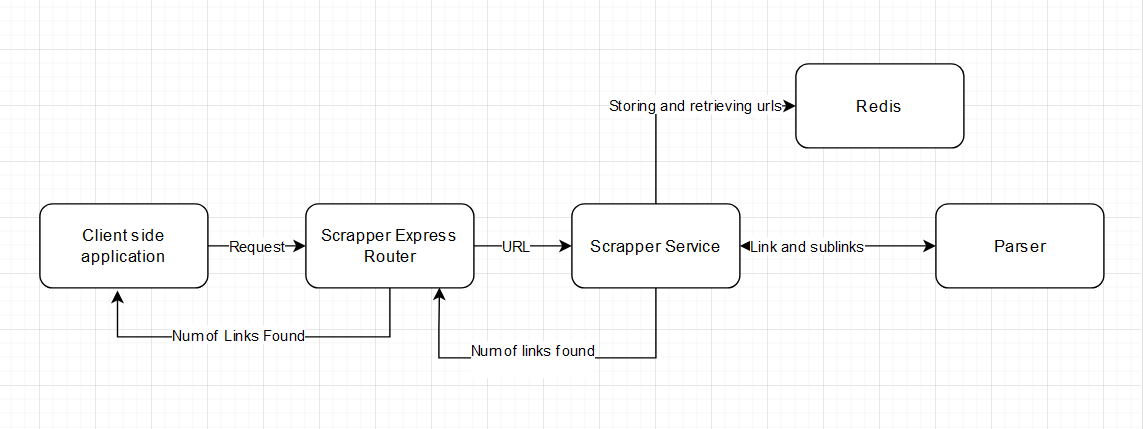
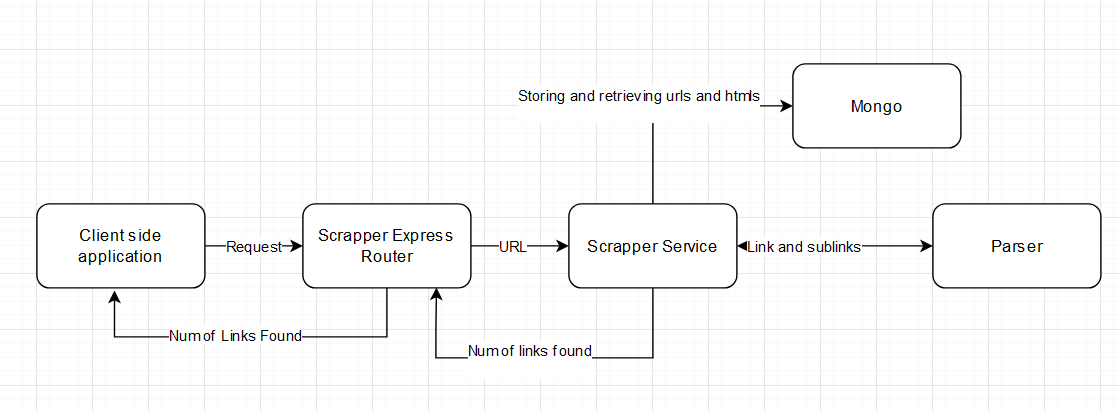
switched to mongo, updated readme and changed get route

Changed region(s): [[0.0312, 0.1456, 1.0, 0.8738], [0.875, 0.5534, 0.9375, 0.6117], [0.75, 0.233, 0.8125, 0.2913]]

diff --git a/test/VulnerabilityFinderTests.test.ts b/test/VulnerabilityFinderTests.test.ts
@@ -3,36 +3,70 @@ import ScrapperRedis from "../src/Scrapper/ScrapperRedis";
 import Scrapper from "../src/Scrapper/Scrapper";
 import {MOCK_LINKS, NUM_OF_LINKS_TO_CHOOSE} from "../src/consts";
 import {afterEach} from "node:test";
-beforeAll( () => {
+import ScrapperDB from "../src/Scrapper/scrapperDB";
+const mockHtml = "<html>mock html</html>"
+beforeAll( async () => {
     ScrapperRedis.init();
+    await ScrapperDB.init()
 })
 describe('Scrapper tests', () => {
-    test('checking that we can add a link',async () => {
-        const didAdd = await ScrapperRedis.addUnique('url');
-        const doesExist = await ScrapperRedis.isDuplicate('url')
-        expect(didAdd).toBe(true)
-        expect(doesExist).toBe(true)
+    describe('checking redis db', () => {
+        test('checking that we can add a link',async () => {
+            const didAdd = await ScrapperRedis.addUnique('url');
+            const doesExist = await ScrapperRedis.isDuplicate('url')
+            expect(didAdd).toBe(true)
+            expect(doesExist).toBe(true)
+
+        })
+        test('removing link',async  () => {
+            const didRemoveLink = await ScrapperRedis.removeLink('url');
+            expect(didRemoveLink).toBe(true)
+        })
+        test('link was removed',async  () => {
+            const doesLinkExist = await ScrapperRedis.isDuplicate('url')
+            expect(doesLinkExist).toBe(false)
+        })
+        test('adding mock links', async () => {
+            const numOfAddedLinks = await Scrapper.parseURL('random.org')
+            // note - because the link choosing is random, I am asking for it to get at least the number of link I have chosen at the start
+            // Although we will usually find all 10 links(+1 for the initial link, unless it is one of the ones in the mock file)
+            expect(numOfAddedLinks).toBeGreaterThan(NUM_OF_LINKS_TO_CHOOSE);
+            await ScrapperRedis.clearLinks()
+        })
+    })
+
+    describe('checking mongo db', () => {
+        test('Checking redis ',async () => {
+            const didAdd = await ScrapperDB.addUnique('url', mockHtml);
+            const doesExist = await ScrapperDB.isDuplicate('url')
+            expect(didAdd).toBe(true)
+            expect(doesExist).toBe(true)
+        })
+        test('removing link',async  () => {
+            const didRemoveLink = await ScrapperDB.removeLink('url');
+            expect(didRemoveLink).toBe(true)
+        })
+        test('link was removed',async  () => {
+            const doesLinkExist = await ScrapperDB.isDuplicate('url')
+            expect(doesLinkExist).toBe(false)
+        })
 
     })
-    test('removing link',async  () => {
-        const didRemoveLink = await ScrapperRedis.removeLink('url');
-        expect(didRemoveLink).toBe(true)
-    })
-    test('link was removed',async  () => {
-        const doesLinkExist = await ScrapperRedis.isDuplicate('url')
-        expect(doesLinkExist).toBe(false)
-    })
-    test('adding mock links', async () => {
-        const numOfAddedLinks = await Scrapper.parseURL('random.org')
-        // note - because the link choosing is random, I am asking for it to get at least the number of link I have chosen at the start
-        // Although we will usually find all 10 links(+1 for the initial link, unless it is one of the ones in the mock file)
-        expect(numOfAddedLinks).toBeGreaterThan(NUM_OF_LINKS_TO_CHOOSE);
-        await ScrapperRedis.clearLinks()
-    })
+
     describe('Checking the parse url function', () => {
+        beforeAll(async () => {
+            await ScrapperDB.clearLinks();
+        })
         afterEach(async () => {
             // Because we are running the parser, we want to clear the mock redis every function.
-            await ScrapperRedis.clearLinks()
+            await ScrapperDB.clearLinks()
+        })
+        test('adding mock links', async () => {
+            const numOfAddedLinks = await Scrapper.parseURL('random.org')
+            // note - because the link choosing is random, I am asking for it to get at least the number of link I have chosen at the start
+            // Although we will usually find all 10 links(+1 for the initial link, unless it is one of the ones in the mock file)
+            expect(numOfAddedLinks).toBeGreaterThan(NUM_OF_LINKS_TO_CHOOSE);
+            await ScrapperDB.clearLinks()
         })
         test('adding mock links with initial link from the mock list', async () => {
             const numOfAddedLinks = await Scrapper.parseURL(MOCK_LINKS[0])

diff --git a/src/Scrapper/scrapperDB.ts b/src/Scrapper/scrapperDB.ts
@@ -1,34 +1,63 @@
-// import {MongoMemoryServer} from "mongodb-memory-server";
-// import {Collection, Db, MongoClient} from "mongodb";
-//
-// class ScrapperDB {
-//
-//     static scrapperDB: ScrapperDB = new ScrapperDB();
-//     private db: Db;
-//     private collection: Collection<any>;
-//     private mongod: MongoMemoryServer;
-//     static async init() {
-//         const uri: string = await this.getMockMongoConnectionString();
-//         await this.scrapperDB.connectToMongo(uri);
-//     }
-//     static async getMockMongoConnectionString(): Promise<string> {
-//         if(!this.scrapperDB.mongod) {
-//             this.scrapperDB.mongod = await MongoMemoryServer.create();
-//         }
-//         return this.scrapperDB.mongod.getUri();
-//     }
-//     async connectToMongo(uri: string): Promise<Collection<any>> {
-//         const client = await MongoClient.connect(uri);
-//         this.db = client.db();
-//         this.collection = this.db.collection('urls')
-//         return this.collection
-//     }
-//     static async saveParsedResult(url: string, html: string, links: string[]): Promise<any> {
-//         const collection = this.scrapperDB.collection;
-//         return await collection.replaceOne({url : url}, {url, html, links}, {upsert: true})
-//     }
-//     static async getParsedResult(url: string): Promise<any> {
-//         return await this.scrapperDB.collection.findOne({url})
-//     }
-//
-// } export default ScrapperDB
+import {MongoMemoryServer} from "mongodb-memory-server";
+import {Collection, Db, MongoClient} from "mongodb";
+import {MongoLinkInterface} from "./mongoLinkInterface.js";
+
+class ScrapperDB {
+
+    static scrapperDB: ScrapperDB = new ScrapperDB();
+    private db: Db;
+    private collection: Collection<any>;
+    private mongod: MongoMemoryServer;
+    private client: MongoClient;
+    static async init() {
+        const uri: string = await this.getMongoURI();
+        await this.scrapperDB.connectToMongo(uri);
+        await this.scrapperDB.initCollections();
+    }
+    static async getMongoURI(): Promise<string> {
+        if(!this.scrapperDB.mongod) {
+            this.scrapperDB.mongod = await MongoMemoryServer.create();
+        }
+        return this.scrapperDB.mongod.getUri();
+    }
+    async connectToMongo(uri: string): Promise<MongoClient> {
+        this.client = await MongoClient.connect(uri);
+        return this.client;
+    }
+    async initCollections(): Promise<Collection<any>> {
+        this.db = this.client.db();
+        this.collection = this.db.collection('urls')
+        return this.collection
+    }
+    // static async saveParsedResult(url: string, html: string): Promise<any> {
+    //     const collection = this.scrapperDB.collection;
+    //     return await collection.replaceOne({url : url}, {url, html}, {upsert: true})
+    // }
+    static async addUnique(url: string, html: string): Promise<boolean> {
+        if(await this.isDuplicate(url)) {
+            return false;
+        }
+        return !!await this.scrapperDB.collection.insertOne({url, html})
+    }
+    static async isDuplicate(url: string): Promise<boolean> {
+        const doc = (await this.scrapperDB.collection.findOne({url: url}));
+        return doc !== null
+    }
+    static async getParsedResult(url: string): Promise<any> {
+        return await this.scrapperDB.collection.findOne({url})
+    }
+    static async removeLink(link: string): Promise<boolean> {
+        return !!(await this.scrapperDB.collection.deleteOne({url: link}))
+    }
+    static async clearLinks(): Promise<number> {
+        return (await this.scrapperDB.collection.deleteMany({})).deletedCount
+    }
+    static async getLinkData(url: string): Promise<MongoLinkInterface> {
+        const doc = await this.scrapperDB.collection.findOne({url: url})
+        if(!doc) {
+            return null;
+        }
+        return doc;
+    }
+
+} export default ScrapperDB

diff --git a/src/Scrapper/Scrapper.ts b/src/Scrapper/Scrapper.ts
@@ -1,6 +1,8 @@
-import {MAX_DEPTH, MAX_NUM_OF_LINKS, MOCK_LINKS, NUM_OF_LINKS_TO_CHOOSE} from "../consts.js";
-import ScrapperRedis from "./ScrapperRedis.js";
+import {MAX_DEPTH, MAX_NUM_OF_LINKS } from "../consts.js";
+import ScrapperDB from "./scrapperDB.js";
 import HtmlParser from "./HtmlParser.js";
+// import ScrapperRedis from "./ScrapperRedis.js";
+import {MongoLinkInterface} from "./mongoLinkInterface.js";
 
 class Scrapper {
     static queue: {link: string, depth: number}[] = [];
@@ -9,7 +11,7 @@ class Scrapper {
         if(!url) {
             throw new Error('no or empty url given')
         }
-        let numOfLinksAdded = await this.enqueUniqueLink(url, 0);
+        let numOfLinksAdded = await this.enqueUniqueLink(url,await HtmlParser.parseHtml(url), 0);
         if(numOfLinksAdded === 0) {
             return 0;
         }
@@ -22,7 +24,7 @@ class Scrapper {
                 const html = await HtmlParser.parseHtml(link)
                 const subLinks = HtmlParser.getSublinks(html);
                 for(const link of subLinks) {
-                    numOfLinksAdded += (await this.enqueUniqueLink(link, 0));
+                    numOfLinksAdded += (await this.enqueUniqueLink(link, html, 0));
                 }
             } catch (e) {
                 console.log(`failed to parse ${link}`)
@@ -31,17 +33,20 @@ class Scrapper {
         return numOfLinksAdded;
     }
 
-    private static async enqueUniqueLink(link: string, depth: number): Promise<number> {
-        const isDuplicate = await ScrapperRedis.isDuplicate(link);
+    private static async enqueUniqueLink(link: string, html: string, depth: number): Promise<number> {
+        const isDuplicate = await ScrapperDB.isDuplicate(link);
         if(isDuplicate) {
             return 0;
         }
-        await ScrapperRedis.addUnique(link)
+        await ScrapperDB.addUnique(link, html)
         this.queue.push({link, depth});
         return 1;
     }
     static async doesLinkExist(url: string): Promise<boolean> {
-        return ScrapperRedis.isDuplicate(url)
+        return ScrapperDB.isDuplicate(url)
+    }
+    static async getLinkData(url: string): Promise<MongoLinkInterface> {
+        return await ScrapperDB.getLinkData(url);
     }
 
 } export default Scrapper

diff --git a/src/ScrapperAPI/ScrapperRouter.ts b/src/ScrapperAPI/ScrapperRouter.ts
@@ -22,17 +22,17 @@ class ScrapperRouter {
                 return res.status(500).json({error: 'unexpected error has occurred: ' + e.toString()})
             }
         });
-        this.router.get('/doesLinkExist', async (req, res) => {
+        this.router.get('/parsedData', async (req, res) => {
             try {
                 const url = req.query.url;
                 if(!url) {
                     return res.status(400).json({error: 'no url given'})
                 }
-                const data = await Scrapper.doesLinkExist(url)
+                const data = await Scrapper.getLinkData(url)
                 if (!data) {
                     return res.status(400).json({error: 'no such url has been saved'})
                 }
-                return res.json({data: 'such url exists in the db!'})
+                return res.json({url: data.url, html: data.html})
             } catch (e) {
                 return res.status(500).json({error: 'unexpected error has occurred: ' + e.toString()})
             }

diff --git a/src/index.ts b/src/index.ts
@@ -1,13 +1,13 @@
 import express from 'express';
 import ScrapperRouter from './ScrapperAPI/ScrapperRouter.js';
-import ScrapperRedis from "./Scrapper/ScrapperRedis.js";
+import ScrapperDB from "./Scrapper/scrapperDB.js";
 
 const app = express();
 app.use(express.json());
 app.use('/', new ScrapperRouter().router)
 const port = 3000;
 try {
-    await ScrapperRedis.init();
+    await ScrapperDB.init();
     app.listen(port, () => {
         console.log(`Server is running on port ${port}`);
     });

diff --git a/src/Scrapper/mongoLinkInterface.ts b/src/Scrapper/mongoLinkInterface.ts
@@ -1,0 +1,4 @@
+export interface MongoLinkInterface {
+    url: string,
+    html: string
+}

diff --git a/README.md b/README.md
@@ -4,36 +4,35 @@ First npm install \
 To run the code you need to run npm run build and npm run run \
 To run tests you need to run npm run test
 You will need to run postman and send a request to localhost:3000/parse with body {url: link}
-If you want to check if a link exists you need to run get on /doesLinkExist?url=link
+If you want to check if a link exists you need to run get on /parsedData?url=link
 Assumptions I made:
-1) We don't need to save the html and we don't need to save the connections between the different urls
-2) We only need to save the links themselves. 
-3) No need for actual parsing of html and extracting links from it(although there is some code to enable if you want to read the html)
-4) Therefore, I chose Redis, and for this assignment I used io-redis mock, so I can run it locally.
-5) If an already existing link is sent we don't parse it further(Because the parser function basically crawls through the urls, no new information would be gained(except in the case where we have reached the capacity and manually stopped it, but it is a very rare case, and it can be easily changed if we do want to check duplicate links))
-6) Swapping the mock redis for the  real redis should be easy
+1) We need to save the links and their htmls as strings
+2) No need for actual parsing of html and extracting links from it(although there is some code to enable if you want to read the html)
+3) Therefore, I chose Mongo, and for this assignment I used in memory mongo server, so I can run it locally.
+4) If an already existing link is sent we don't parse it further(Because the parser function basically crawls through the urls, no new information would be gained(except in the case where we have reached the capacity and manually stopped it, but it is a very rare case, and it can be easily changed if we do want to check duplicate links))
+5) Swapping the mock mongo for the real mongo should be relatively easy, we need to just switch the mongo url and check for errors.
 
 How I approached the assignment:
-1) I tried to understand the requirements, I made a wrong assumption, so I worked with Mongodb at first, (I needed to ask questions to better understand it).
-2) Once I understood the requirements I started by thinking which DB is best suited for this kind of request, because we don't need to save documents, just unique keys, I chose redis, as it is a very fast in-memory db which excels in saving and loading key/value object.
-3) After I understood I wanted to work with Redis I started working on the flow of the code, and then I started working on the code
+1) I tried to understand the requirements, I misunderstood the assignment, so I worked both with mongodb and redis, but finally settled on mongodb.
+2) Once I understood the requirements I started by thinking which DB is best suited for this kind of request, because we need to save the html document, and we want to be able to scale it a lot, I chose mongodb.
+3) After I understood I wanted to work with MongoDb I started working on the flow of the code, and then I started working on the code
 4) I always try to create an MVP and expand upon it, making sure each time that more and more functionality works
 5) So I created a simple flow in my notebook and started coding
 
 So my process was:
 1) Create a parsing function
 2) Create a mock link function
-3) Create redis mock client
+3) Create a mongo mock client
 4) Save/retrieve/check duplicate from mock client in the scrapper service
 5) Create a crawler that takes a link and adds unique links to a queue and goes over the queue(BFS btw)
-6) Wrote tests as I worked, to make sure that redis client works, and then that the parser function works.
+6) Wrote tests as I worked, to make sure that mongo client works, and then that the parser function works.
 
 How to improve the project: 
-1) Work with real Redis, maybe some graph db, so you can see the links and how they connect, if you want to create a structure of connections or visualize the internet.
+1) Work with real Mongo, maybe some graph db, so you can see the links and how they connect, if you want to create a structure of connections or visualize the internet, or add a way to save the found links in the mongodb document in a separate field, so we won't have to parse them again.
 2) Find a way to extract links in an efficient way, I have only parsed the html, and the link extraction is fake
 3) Add a way to dynamically change the amount of links we want to find, maybe we want to add a limit on the request itself(for example, we want to find the first 100 links in wikipedia, not necessarily all of them), this of course can be done by adding more parameters to the request.
 4) Add a way to search for different types of dom elements, so we can find all kinds of data and not just links.
-5) Add verification to the requests, some sort of key(jwt) so we will not run unauthorized requests
-6) Add CICD(dockerfile + github action), with automatic deployment to a cloud, making sure to run tests beforehand.
-7) Add a redis service which will be the only connection to redis, so when we will want to scale up the project, we will not have to worry about the amount of Simultaneous connections we have to Redis.
-8) Maybe we would also want to add different sets in Redis, and not have just 1 set with all the URLs as it will be harder and harder to find whether a URL is unique and adding it, but Redis does work very well with large sets and each set requires additional memory.
+5) Add a better DB layer, so it will be easy to switch between types of dbs, this can be done either locally or as a different microservice.(Currently if we want to use redis we need to change the redis service, so it will save json and not just the link)
+6) Add verification to the requests, some sort of key(jwt) so we will not run unauthorized requests
+7) Add CICD(dockerfile + github action), with automatic deployment to a cloud, making sure to run tests beforehand.
+8) Add a DB service which will be the only connection to Mongo, so when we will want to scale up the project, we will not have to worry about the amount of Simultaneous connections we have to Mongo, also this layer(db service) will allow us to switch dbs easily, in this project I used the same functions with the same signatures more or less so the switch between mongo and redis is relatively simple.
